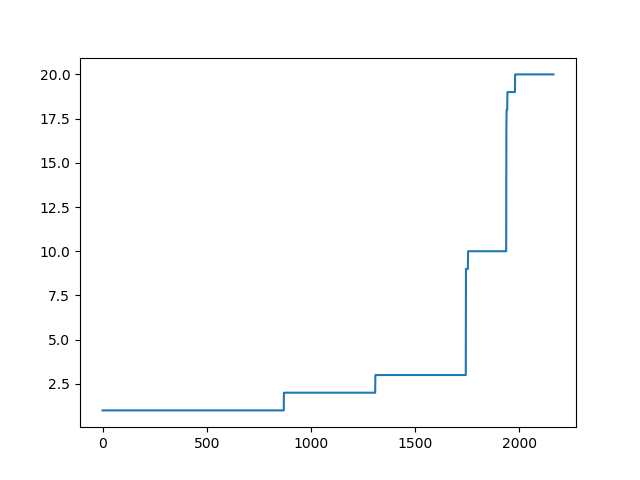
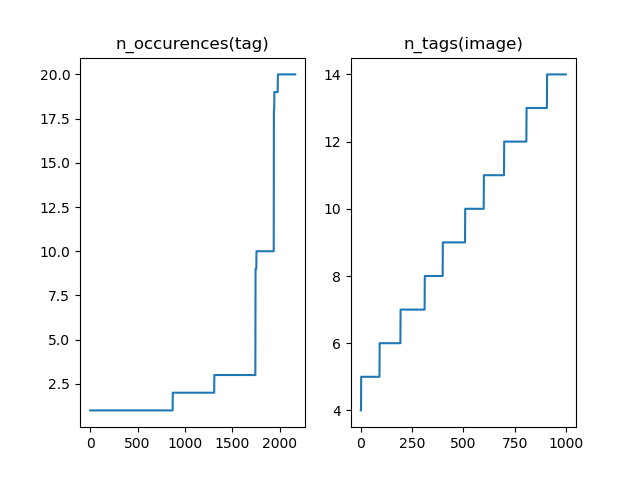
# tags(img)

diff --git a/anton/visualise.py b/anton/visualise.py
@@ -21,7 +21,14 @@ print('n unique tags,', len(set(it.chain(*data.tags))))
 lens = list(map(len, data.tags))
 print('n tot tags,', sum(lens))
 
+plt.subplot(1, 2, 1)
 counts = Counter(it.chain(*data.tags))
 counts = list(sorted(counts.values()))
 plt.plot(counts)
+plt.title('n_occurences(tag)')
+
+plt.subplot(1, 2, 2)
+plt.plot(list(sorted(lens)))
+plt.title('n_tags(image)')
+
 plt.show()
